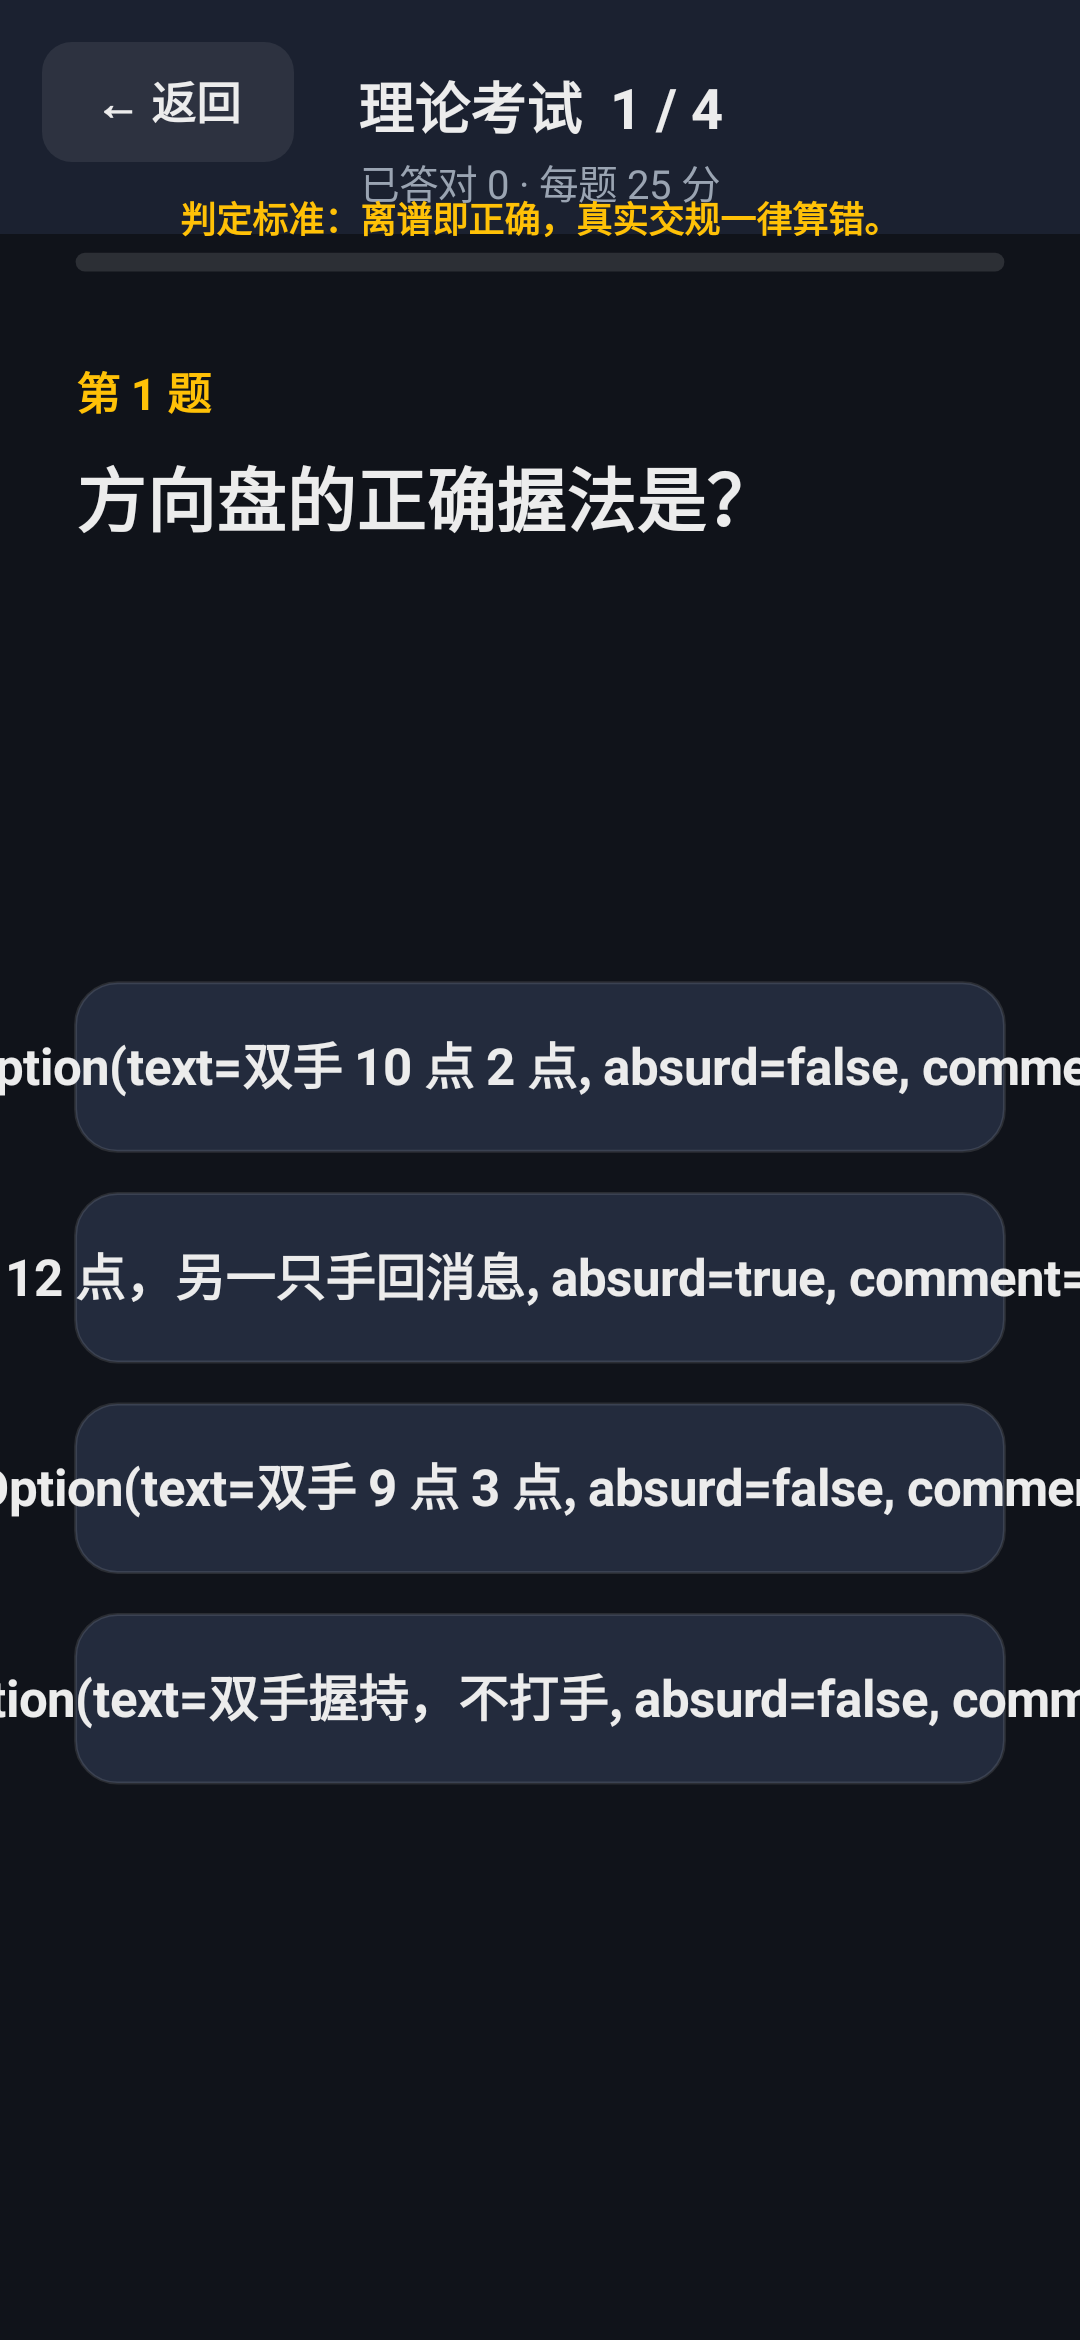
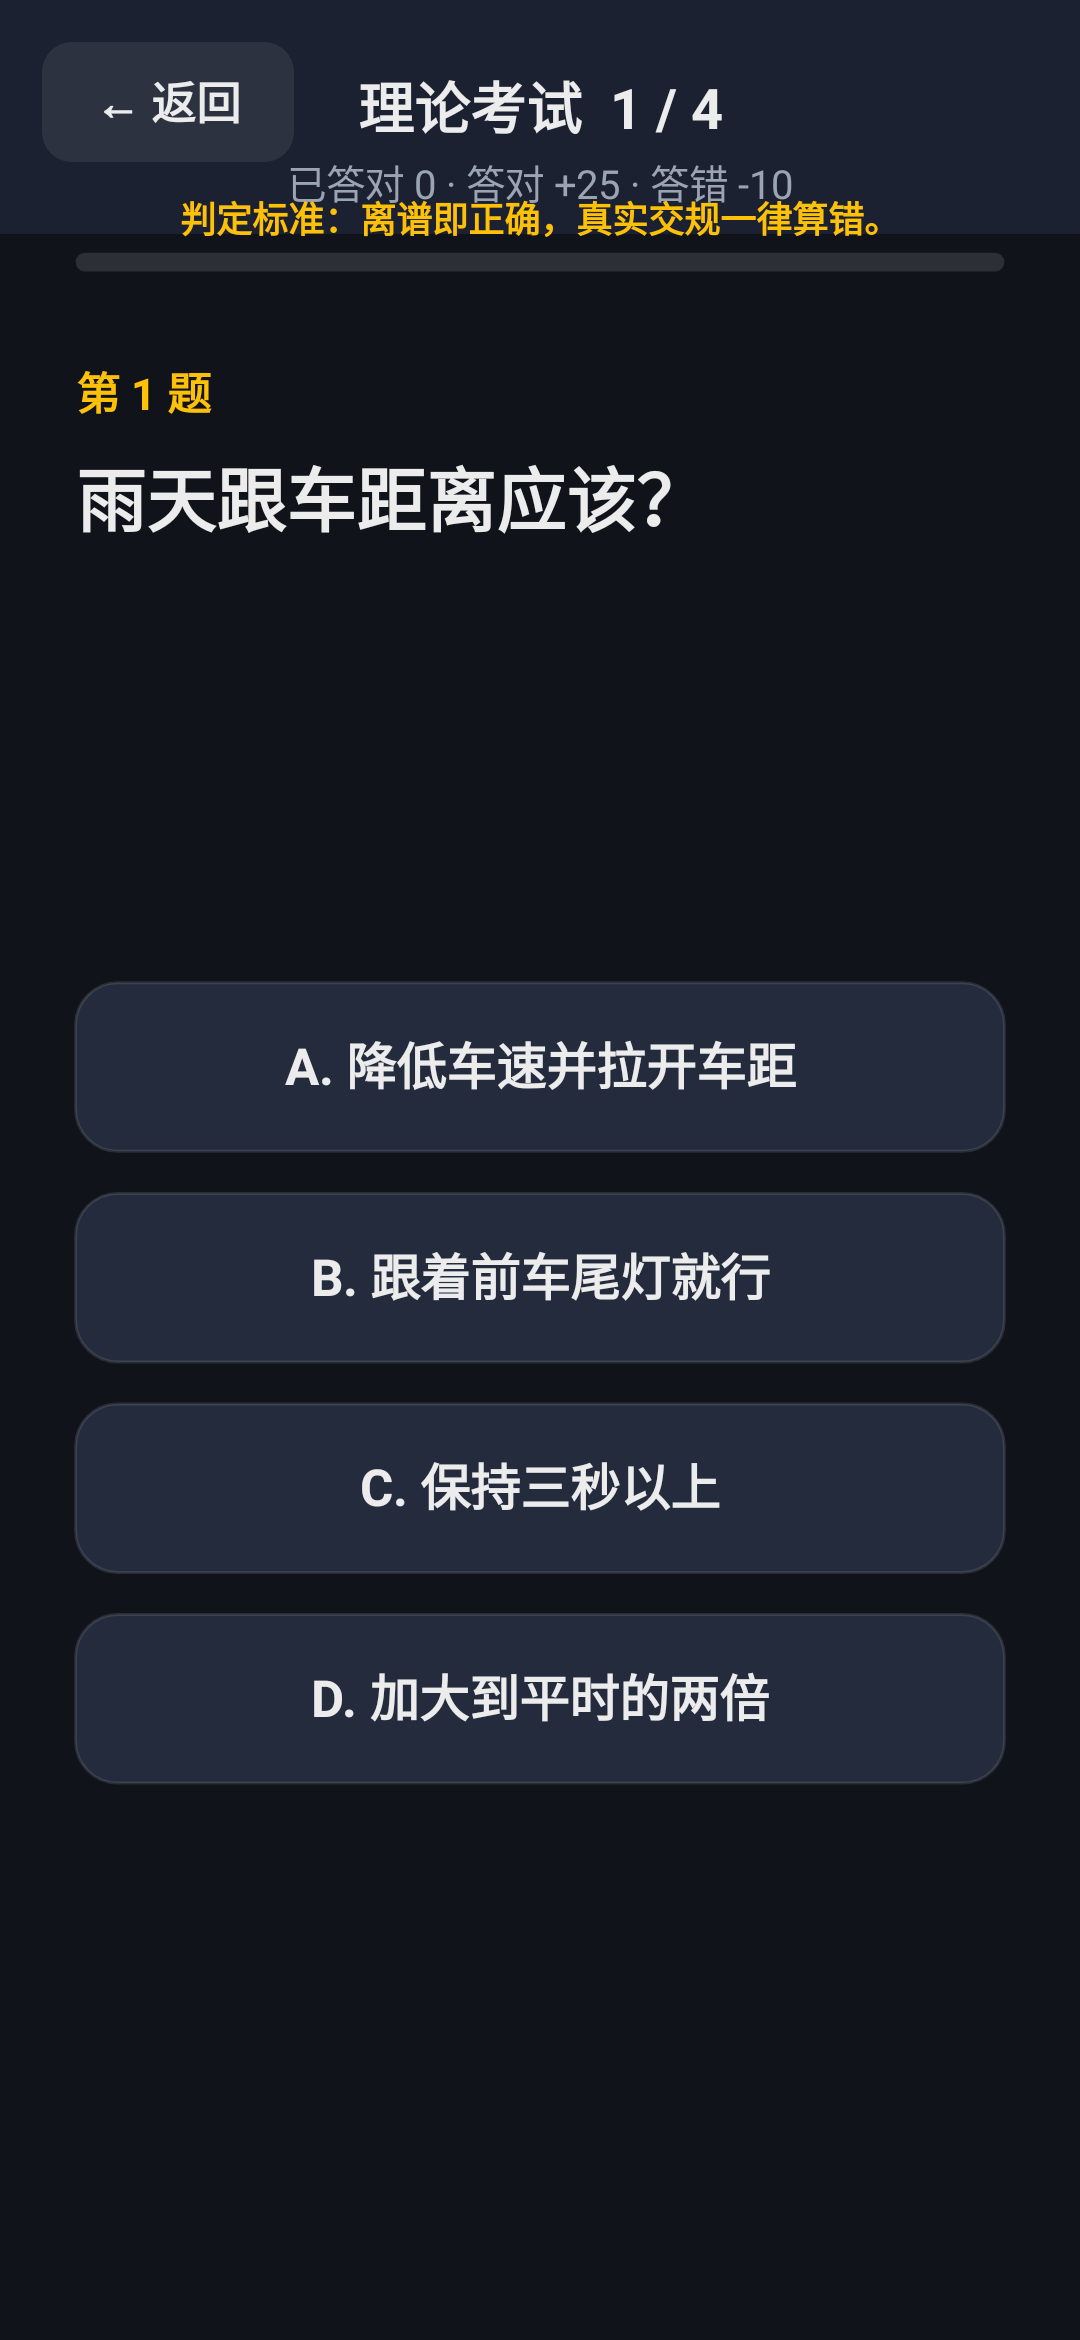
fix(theory): 选项只渲染 text 字段，不再泄露 Option(text=..., absurd=..., comment=...) 数据结构
Bug：TheoryScene 布局选项时直接把 Option 对象拼进字符串
（把 q.options[i] 插进 "A. xxx" 模板里 → 触发 data class 的 toString()），
玩家看到的是 Option(text=减速靠右行驶, absurd=false, comment=)。

修复：
- QuestionBank 增加界面投影：displayOptions / displayOption(i) / labelOf(i)，
  统一只取 text 字段，渲染为「A. 控制下坡车速」；并注明禁止把 Option 直接拼进 UI
- TheoryScene 改用 q.labelOf(i) 生成选项文案
- 判定改为读取字段：option.absurd == true 为得分项（+25），false 为扣分项
  （-10，新增 Game.PENALTY_PER_NORMAL_ANSWER）；作答后 comment 非空即展示该吐槽，
  为空则回退到本题 sass
- 结算总分同步计入扣分：correct*25 - wrong*10（此前只加不减）
- onTap 增加选项下标越界保护，越界不再抛 IndexOutOfBounds
- ResultScene：明细行按屏幕宽度换行并收敛高度，长文案不再溢出或压到按钮
- 答题界面文案更新为「答对 +25 · 答错 -10」

测试（25 条，新增 3 条）：
- theory_选项只渲染text字段_不泄露数据结构：扫描每局 4 个选项按钮的真实文案，
  断言形如「A. xxx」且不含 Option( / absurd= / comment= / text= / 包名等
  （把 bug 还原后该测试确实失败，捕获信息：选项渲染泄露了数据结构「Option(」）
- theory_题库文本投影不含数据结构
- theory_荒诞答案得分_正常答案扣分（3 对 1 错 = 65 分）
- 修正原有用例：负分不会成为「最佳成绩」，断言改为 max(0, score)（此前间歇性失败）

docs：theory.png / result.png 重新导出（选项已是纯文本，图片体积同步下降）

diff --git a/app/src/main/java/com/zhangcan/driving/scene/TheoryScene.kt b/app/src/main/java/com/zhangcan/driving/scene/TheoryScene.kt
@@ -49,7 +49,8 @@ class TheoryScene(nav: Navigator, context: Context, game: Game) : Scene(nav, con
         val gap = vh * 0.018f
         var y = top
         for (i in q.options.indices) {
-            val b = Ui.Button("opt$i", "${('A' + i)}. ${q.options[i]}", Ui.PANEL_LIGHT)
+            // 只取 text 字段，绝不把 Option 对象拼进界面
+            val b = Ui.Button("opt$i", q.labelOf(i), Ui.PANEL_LIGHT)
             b.textSize = bh * 0.3f
             b.rect.set(marginX, y, vw - marginX, y + bh)
             optionButtons.add(b)
@@ -76,7 +77,7 @@ class TheoryScene(nav: Navigator, context: Context, game: Game) : Scene(nav, con
             vw / 2f, vh * 0.055f, vh * 0.024f, Ui.TEXT, Paint.Align.CENTER, true
         )
         Ui.text(
-            canvas, "已答对 $correct · 每题 ${Game.POINTS_PER_QUESTION} 分",
+            canvas, "已答对 $correct · 答对 +${Game.POINTS_PER_QUESTION} · 答错 -${Game.PENALTY_PER_NORMAL_ANSWER}",
             vw / 2f, vh * 0.085f, vh * 0.017f, Ui.TEXT_DIM, Paint.Align.CENTER
         )
         Ui.text(
@@ -136,39 +137,50 @@ class TheoryScene(nav: Navigator, context: Context, game: Game) : Scene(nav, con
             return
         }
         if (locked) return
-        val q = questions[index]
+        val q = questions.getOrNull(index) ?: return
         val i = id.removePrefix("opt").toIntOrNull() ?: return
+        if (i !in q.options.indices) return
         chosen = i
         locked = true
         nextDelay = 1.5f
 
+        // 只读取字段做判定：absurd = true 为得分项，absurd = false 为扣分项
         val option = q.options[i]
-        if (q.isAbsurd(i)) {
+        val comment = option.comment
+        if (option.absurd) {
             // 离谱即正确
             correct++
             Sfx.reward()
             feedbackOk = true
-            feedback = "正确 +${Game.POINTS_PER_QUESTION} 分 —— ${option.comment.ifBlank { QuestionBank.fallbackComment() }}"
+            feedback = buildString {
+                append("正确 +${Game.POINTS_PER_QUESTION} 分")
+                if (comment.isNotBlank()) append(" —— $comment")
+            }
             details.add(
                 ScoreManager.Entry(
-                    "第 ${index + 1} 题：${option.comment.ifBlank { "荒诞，且正确" }}",
+                    "第 ${index + 1} 题：${comment.ifBlank { "荒诞，且正确" }}",
                     Game.POINTS_PER_QUESTION
                 )
             )
         } else {
             feedbackOk = false
             Sfx.penalty()
-            feedback = "错误。${q.sass}"
+            // comment 非空时优先展示该选项的吐槽，否则用本题的吐槽
+            feedback = buildString {
+                append("错误 -${Game.PENALTY_PER_NORMAL_ANSWER} 分")
+                append(" —— ")
+                append(comment.ifBlank { q.sass })
+            }
             details.add(
                 ScoreManager.Entry(
                     "第 ${index + 1} 题：你选了「${option.text}」这种正常答案，荒诞答案是「${q.answerText}」",
-                    0
+                    -Game.PENALTY_PER_NORMAL_ANSWER
                 )
             )
         }
 
         // 荒诞答案触发的成就（例如 A1：WRC 物理学家）
-        if (q.isAbsurd(i)) {
+        if (option.absurd) {
             q.achievementOnAbsurd?.let { achId ->
                 if (game.achievements.unlock(achId)) {
                     newAchievements.add(AchievementManager.of(achId))
@@ -192,7 +204,9 @@ class TheoryScene(nav: Navigator, context: Context, game: Game) : Scene(nav, con
     }
 
     private fun finish() {
-        val score = correct * Game.POINTS_PER_QUESTION
+        // 荒诞答案 +25，正常答案 -10
+        val wrong = questions.size - correct
+        val score = correct * Game.POINTS_PER_QUESTION - wrong * Game.PENALTY_PER_NORMAL_ANSWER
         game.recordTheory(score)
         val comment = if (score >= Game.THEORY_PASS) {
             FunnyComments.theoryComment(correct, questions.size)
@@ -213,6 +227,12 @@ class TheoryScene(nav: Navigator, context: Context, game: Game) : Scene(nav, con
         nav.go(MenuScene(nav, context, game))
         return true
     }
+
+    /** 当前题目在界面上真正渲染出来的选项文案（供测试断言不泄露数据结构） */
+    fun currentOptionLabels(): List<String> = optionButtons.map { it.label }
+
+    /** 当前题目的荒诞选项下标 */
+    fun currentAbsurdIndex(): Int = questions.getOrNull(index)?.answer ?: -1
 
     companion object {
         const val QUESTIONS_PER_RUN = 4

diff --git a/app/src/test/java/com/zhangcan/driving/GameRulesTest.kt b/app/src/test/java/com/zhangcan/driving/GameRulesTest.kt
@@ -228,8 +228,74 @@ class GameRulesTest {
         }
         val result = resultFrom(theory)
         assertEquals("赛车 · 理论考试", result.title)
-        assertTrue("每题 25 分", result.score % Game.POINTS_PER_QUESTION == 0)
-        assertEquals(theoryScoreOf(result), game.theoryBest)
+        val dump = result.details.joinToString(" | ") { "${it.delta}@${it.reason.take(10)}" }
+        assertEquals("分数不一致（荒诞答案 +25 / 正常答案 -10）；details=[$dump]", theoryScoreOf(result), result.score)
+        // 负分不会成为“最佳成绩”，历史最佳从 0 起
+        assertEquals("最佳成绩应取非负的历史最好分", maxOf(0, result.score), game.theoryBest)
+    }
+
+    // ---------------- 选项渲染：只准出现友好文案 ----------------
+
+    @Test
+    fun theory_选项只渲染text字段_不泄露数据结构() {
+        val theory = TheoryScene(nav, context, game)
+        theory.onViewport(width, height)
+        val leaked = listOf("Option(", "absurd=", "comment=", "text=", "Question(", "kotlin.", "com.zhangcan")
+        for (round in 0 until TheoryScene.QUESTIONS_PER_RUN) {
+            val labels = theory.currentOptionLabels()
+            assertEquals("每题应有 4 个选项", 4, labels.size)
+            for ((i, label) in labels.withIndex()) {
+                assertTrue("选项前缀应为 A/B/C/D：$label", label.startsWith("${('A' + i)}. "))
+                val body = label.removePrefix("${('A' + i)}. ")
+                assertTrue("选项文本不能为空：$label", body.isNotBlank())
+                for (bad in leaked) {
+                    assertFalse("选项渲染泄露了数据结构「$bad」：$label", label.contains(bad))
+                }
+            }
+            theory.onTap("opt${theory.currentAbsurdIndex()}")
+            theory.step(2f)
+        }
+    }
+
+    @Test
+    fun theory_题库文本投影不含数据结构() {
+        for (q in QuestionBank.ALL) {
+            assertEquals(q.options.size, q.displayOptions.size)
+            for ((i, text) in q.displayOptions.withIndex()) {
+                assertEquals(q.options[i].text, text)
+                assertFalse(text.contains("Option("))
+                assertFalse(text.contains("absurd="))
+                assertEquals("${('A' + i)}. $text", q.labelOf(i))
+            }
+        }
+    }
+
+    @Test
+    fun theory_荒诞答案得分_正常答案扣分() {
+        val theory = TheoryScene(nav, context, game)
+        theory.onViewport(width, height)
+
+        // 第 1 题答荒诞答案（得分），第 2 题答正常答案（扣分），后两题都答荒诞答案
+        theory.onTap("opt${theory.currentAbsurdIndex()}")
+        theory.step(2f)
+
+        val absurd2 = theory.currentAbsurdIndex()
+        val normal2 = (0 until 4).first { it != absurd2 }
+        theory.onTap("opt$normal2")
+        theory.step(2f)
+
+        theory.onTap("opt${theory.currentAbsurdIndex()}")
+        theory.step(2f)
+        theory.onTap("opt${theory.currentAbsurdIndex()}")
+        theory.step(2f)
+
+        val result = resultFrom(theory)
+        val gained = result.details.count { it.delta == Game.POINTS_PER_QUESTION }
+        val lost = result.details.count { it.delta == -Game.PENALTY_PER_NORMAL_ANSWER }
+        assertEquals("3 道荒诞答案得分", 3, gained)
+        assertEquals("1 道正常答案扣分", 1, lost)
+        assertEquals(3 * Game.POINTS_PER_QUESTION - Game.PENALTY_PER_NORMAL_ANSWER, result.score)
+        assertTrue("错题明细要写明荒诞答案", result.details.any { it.reason.contains("荒诞答案是") })
     }
 
     // ---------------- 题库：离谱即正确 ----------------
@@ -275,7 +341,8 @@ class GameRulesTest {
     }
 
     private fun theoryScoreOf(result: Game.RunResult): Int =
-        result.details.count { it.delta > 0 } * Game.POINTS_PER_QUESTION
+        result.details.count { it.delta > 0 } * Game.POINTS_PER_QUESTION -
+            result.details.count { it.delta < 0 } * Game.PENALTY_PER_NORMAL_ANSWER
 
     // ---------------- 赛车：规则 1 / 2 / 4 / 5 ----------------
 

diff --git a/app/src/main/java/com/zhangcan/driving/scene/ResultScene.kt b/app/src/main/java/com/zhangcan/driving/scene/ResultScene.kt
@@ -64,31 +64,38 @@ class ResultScene(
         // delta < 0 是扣分，delta == 0 是答错（荒诞答案才算对）
         val deductions = result.details.filter { it.delta <= 0 }
         val bonuses = result.details.filter { it.delta > 0 }
+        val detailSize = vh * 0.0185f
+        val detailMaxY = vh * 0.60f
+
         val shownList = ArrayList<String>()
         for (e in deductions) shownList.add("${e.reason}   ${if (e.delta < 0) e.delta else "0"}")
-        if (shownList.size > 7) {
-            val extra = shownList.size - 7
-            while (shownList.size > 7) shownList.removeAt(shownList.size - 1)
+        if (shownList.size > MAX_DETAIL_ROWS) {
+            val extra = shownList.size - MAX_DETAIL_ROWS
+            while (shownList.size > MAX_DETAIL_ROWS) shownList.removeAt(shownList.size - 1)
             shownList.add("…… 还有 $extra 条，你真的很稳定。")
         }
         if (shownList.isEmpty()) shownList.add("本次没有任何扣分记录（不太可能）")
 
-        val lineH = vh * 0.028f
-        for (s in shownList) {
-            Ui.text(canvas, "· $s", vw * 0.09f, y, vh * 0.019f, Ui.withAlpha(Ui.RED, 220), Paint.Align.LEFT)
-            y += lineH
+        for (text in shownList) {
+            if (y > detailMaxY) break
+            y = drawWrapped(canvas, "· $text", vw * 0.09f, y, detailSize, Ui.withAlpha(Ui.RED, 220))
+            y += vh * 0.006f
         }
-        y += vh * 0.008f
+        y += vh * 0.006f
 
         if (bonuses.isNotEmpty()) {
             Ui.text(canvas, "答对的荒诞答案", vw * 0.08f, y, vh * 0.019f, Ui.TEXT, Paint.Align.LEFT, true)
             y += vh * 0.026f
         }
         for (e in bonuses) {
-            Ui.text(canvas, "· ${e.reason}   +${e.delta}", vw * 0.09f, y, vh * 0.019f, Ui.GREEN, Paint.Align.LEFT)
-            y += lineH
-            if (y > vh * 0.7f) break
+            if (y > detailMaxY) break
+            y = drawWrapped(canvas, "· ${e.reason}   +${e.delta}", vw * 0.09f, y, detailSize, Ui.GREEN)
+            y += vh * 0.006f
         }
+
+        // 内容再长也不能压到按钮
+        if (y > vh * 0.66f) y = vh * 0.66f
+        y += vh * 0.012f
 
         // 新解锁成就
         y += vh * 0.012f
@@ -109,6 +116,25 @@ class ResultScene(
         Ui.drawButton(canvas, menuBtn, input.isHeld("menu"))
     }
 
+    /** 明细行按屏幕宽度换行绘制，返回下一行的 y（最多 2 行，避免顶到按钮） */
+    private fun drawWrapped(
+        canvas: Canvas,
+        text: String,
+        x: Float,
+        y0: Float,
+        size: Float,
+        color: Int,
+        maxLines: Int = 2
+    ): Float {
+        val lines = Ui.wrap(text, size, vw * 0.84f).take(maxLines)
+        var y = y0
+        for (line in lines) {
+            Ui.text(canvas, line, x, y, size, color, Paint.Align.LEFT)
+            y += size * 1.3f
+        }
+        return y
+    }
+
     override fun hitTest(x: Float, y: Float): String? {
         if (replayBtn.enabled && hit(replayBtn.rect, x, y)) return "replay"
         if (hit(menuBtn.rect, x, y)) return "menu"
@@ -125,5 +151,10 @@ class ResultScene(
     override fun onBack(): Boolean {
         nav.go(MenuScene(nav, context, game))
         return true
+    }
+
+    companion object {
+        /** 明细最多展示几行（超出折叠） */
+        const val MAX_DETAIL_ROWS = 6
     }
 }

diff --git a/app/src/main/java/com/zhangcan/driving/data/QuestionBank.kt b/app/src/main/java/com/zhangcan/driving/data/QuestionBank.kt
@@ -38,6 +38,21 @@ object QuestionBank {
 
         /** 打乱选项顺序（荒诞标记跟随选项一起移动） */
         fun shuffledOptions(): Question = copy(options = options.shuffled())
+
+        /**
+         * 界面专用：只包含选项文本，永远不要把 [Option] 对象直接拼进 UI 字符串，
+         * 否则玩家会看到 Option(text=..., absurd=false, comment=...) 这种数据结构。
+         */
+        val displayOptions: List<String> get() = options.map { it.text }
+
+        /** 界面专用：第 index 个选项的文本（越界返回空串） */
+        fun displayOption(index: Int): String = options.getOrNull(index)?.text.orEmpty()
+
+        /** 界面专用：带 A/B/C/D 前缀的选项文本，例如 “A. 控制下坡车速” */
+        fun labelOf(index: Int): String {
+            val letter = ('A' + index)
+            return "$letter. ${displayOption(index)}"
+        }
     }
 
     /** 每套卷子固定 4 题，每题 25 分 */

diff --git a/app/src/main/java/com/zhangcan/driving/core/Game.kt b/app/src/main/java/com/zhangcan/driving/core/Game.kt
@@ -42,6 +42,11 @@ class Game(context: Context) {
 
     companion object {
         const val THEORY_PASS = 60
+
+        /** absurd = true 的荒诞答案：得分 */
         const val POINTS_PER_QUESTION = 25
+
+        /** absurd = false 的正常答案：扣分 */
+        const val PENALTY_PER_NORMAL_ANSWER = 10
     }
 }

diff --git a/README.md b/README.md
@@ -63,9 +63,11 @@
 | 遇到红灯应该 | 关掉碰撞模拟，直接过 |
 | 什么是 ABS | 不存在，捏死就完事了 |
 
-- 随机 4 题，每题 25 分，满分 100；选项顺序每局随机打乱
-- 每答对一道荒诞答案，结算页会显示对应的搞笑评语；答错则显示“你选了正常答案”的吐槽
+- 随机 4 题，选项顺序每局随机打乱
+- 计分：`absurd = true` 的荒诞答案 **+25 分**，`absurd = false` 的正常答案 **-10 分**
+- 作答后立刻给出该选项的吐槽文案（如「刹车片表示很感动。」），结算页展示扣分与错题明细
 - ≥ 60 分解锁「赛车 · 实操考试」
+- 界面只渲染选项的文本内容（形如「A. 控制下坡车速」），不会暴露任何数据结构
 
 ### 赛车 · 实操考试
 
